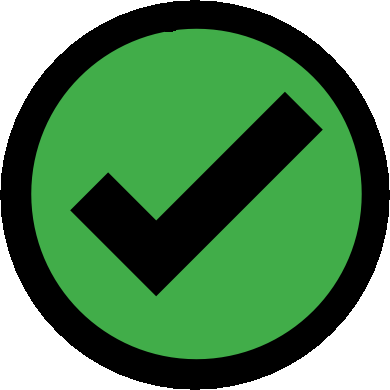
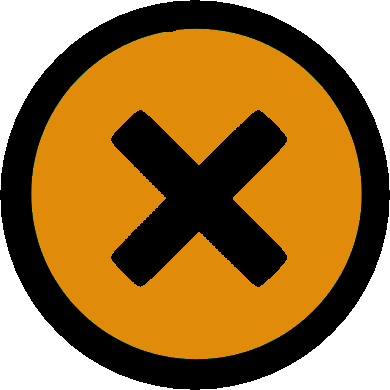
Creating and deleting players.

diff --git a/scripts/functions.js b/scripts/functions.js
@@ -114,10 +114,12 @@ function readCircles(index, a_max, s_max) {
     	if (s == maximalstructurepoints) {
     		mechstatus = 4;
     		mechstatusimage = "images/DD_04.png";
+    		document.getElementById('toprightimage').src='./images/top-right_phase00.png';
     	}
     	if (e == 2) {
     		mechstatus = 4;
     		mechstatusimage = "images/DD_04.png";
+    		document.getElementById('toprightimage').src='./images/top-right_phase00.png';
     	}
 	}
 
@@ -419,9 +421,20 @@ function setCircles(h, a, s, e, fc, mp, w) {
 		// Mech destroyed
 		// document.body.style.backgroundImage = "url('" + wallpaperWrecked + "')";
 		document.getElementById('mechalive_status').src="./images/skull.png";
+		document.getElementById('toprightimage').src="./images/top-right_phase00.png";
 	} else {
 		// document.body.style.backgroundImage = "url('./images/body-bg_" + wallpaperNorm + ".png')";
 		document.getElementById('mechalive_status').src="./images/vitalmonitor.gif";
+		// console.log(movement);
+		if ((movement == 0 || movement === undefined) && weaponsfired == 0) {
+			document.getElementById('toprightimage').src="./images/top-right_phase01.png";
+		}
+		if ((movement > 0 && movement < 5) && weaponsfired == 0) {
+			document.getElementById('toprightimage').src="./images/top-right_phase02.png";
+		}
+		if ((movement > 0 && movement < 5) && weaponsfired == 1) {
+			document.getElementById('toprightimage').src="./images/top-right_phase03.png";
+		}
 	}
 
 	if (h == 0) {
@@ -547,8 +560,8 @@ $(document).ready(function() {
 	$("#cover").hide();
 	//$("#cover").fadeOut(400, "linear");
 
-	$("#phasebutton").fadeOut(0, "linear");
-	$("#phasebutton").fadeIn(1000, "linear");
+	//$("#phasebutton").fadeOut(0, "linear");
+	//$("#phasebutton").fadeIn(1000, "linear");
 });
 
 $(window).resize(function() {

diff --git a/styles/styles.css b/styles/styles.css
@@ -283,6 +283,17 @@ a:hover {
 	//background-color: #ffffff;
 	//background-image: url('../images/bgdicebar.png');
 }
+#infopanel {
+	z-index: 10;
+	position: absolute;
+	width: 220px;
+	right: 20px;
+	bottom: 55px;
+	color: #000000;
+	text-align: right;
+	//background-color: #ffffff;
+	//background-image: url('../images/bgdicebar.png');
+}
 #barclosebutton {
 	z-index: 11;
 	position: absolute;

diff --git a/gui_play_mech.php b/gui_play_mech.php
@@ -275,6 +275,10 @@ session_start();
 			// Error! Unit has fired but no movement was specified! Ask again!
 		}
 
+		if ($array_MECH_IMG_STATUS[$i4] == "images/DD_04.png") {
+			$phaseButton = "./images/top-right_phase00.png";
+		}
+
 		$memodel = $array_MECH_MODEL[$i4];
 		if ($array_ACTIVE_BID[$i4] == "0") {
 			$memodel = "--- BIDDEN AWAY ---";
@@ -329,7 +333,9 @@ session_start();
 </div>
 
 <div id="topright">
-	<a onclick=\"location.href='".$currentmeli."'\" href=<?php echo "'$currentmeli'"; ?>><img src=<?php echo "'$currentPhaseButton'"; ?> style='height:170px;'></a>
+	<a onclick=location.href=<?php echo "'$currentmeli'"; ?> href=<?php echo "'$currentmeli'"; ?>>
+		<img id='toprightimage' src=<?php echo "'$currentPhaseButton'"; ?> style='height:170px;'>
+	</a>
 </div>
 
 <?php
@@ -571,6 +577,9 @@ session_start();
 	<div name='barclosebutton' id='barclosebutton'>
 		<a href='#' onclick='hideInfoBar();'><img src='.\images\selector_03-close.png' width='50px'></a>
 	</div>
+	<div name='infopanel' id='infopanel'>
+    	<img src='./images/ranks/<?php echo $factionid ?>/<?php echo $array_PILOT_RANK[$chosenMechIndex] ?>.png' width='50px' height='50px'>
+    </div>
 </div>
 
 <div name='dicebar' id='dicebar'>
@@ -625,11 +634,11 @@ session_start();
 	if ($movd==1) {
 		if ($playable) {
 			echo "<div id='editMovementValues'>\n";
-			echo "	<br>\n";
+			//echo "	<br>\n";
 			echo "	<br>\n";
 			echo "	<table width='100%'>\n";
 			echo "		<tr>\n";
-			echo "			<td width='40%' onclick=\"location.href='".$locmeli."'\"></td>\n";
+			echo "			<td width='40%'></td>\n"; // onclick=\"location.href='".$locmeli."'\"
 			echo "			<td width='20%'>\n";
 			echo "				<div>\n";
 			echo "					<table class='options' style='margin-left: auto;margin-right: auto;' cellspacing=4 cellpadding=4 border=0px>\n";
@@ -721,18 +730,21 @@ session_start();
 			echo "								&nbsp;&nbsp;&nbsp;Fired\n";
 			echo "							</td>\n";
 			echo "						</tr>\n";
-			echo "						<tr>\n";
-			echo "						    <td nowrap colspan='4'><hr></td>\n";
-			echo "						</tr>\n";
-			echo "						<tr>\n";
- 			echo "							<td nowrap colspan='4' align='center' class='datalabel'>\n";
- 			echo "							    <a onclick='clearFlags($array_MECH_DBID[$chosenMechIndex])' href='javascript:clearFlags($array_MECH_DBID[$chosenMechIndex]);'>CLEAR SELECTION</a>\n";
-			echo "							</td>\n";
-			echo "						</tr>\n";
+//			echo "						<tr>\n";
+//			echo "						    <td nowrap colspan='4'><hr></td>\n";
+//			echo "						</tr>\n";
+//			echo "						<tr>\n";
+// 			echo "							<td nowrap colspan='4' align='center' class='datalabel'>\n";
+// 			echo "							    <a onclick='clearFlags($array_MECH_DBID[$chosenMechIndex])' href='javascript:clearFlags($array_MECH_DBID[$chosenMechIndex]);'>CLEAR SELECTION</a>\n";
+//			echo "							</td>\n";
+//			echo "						</tr>\n";
 			echo "					</table>\n";
 			echo "				<div>\n";
 			echo "			</td>\n";
-			echo "			<td width='40%' valign='top' onclick=\"location.href='".$locmeli."'\">&nbsp;&nbsp;&nbsp;&nbsp;<img src='./images/cancel.png' width='80px'></td>\n";
+			echo "			<td width='40%' valign='top'>\n";
+			echo "				<a href='#' onclick=\"location.href='".$locmeli."'\">&nbsp;&nbsp;&nbsp;&nbsp;<img src='./images/confirm.png' width='80px'></a><br>\n";
+			echo "				<a onclick='clearFlags($array_MECH_DBID[$chosenMechIndex])' href='javascript:clearFlags($array_MECH_DBID[$chosenMechIndex]);'>&nbsp;&nbsp;&nbsp;&nbsp;<img src='./images/cancel.png' width='80px'></a>\n";
+			echo "			</td>\n";
 			echo "		</tr>\n";
 			echo "	</table>\n";
 			echo "</div>\n";
